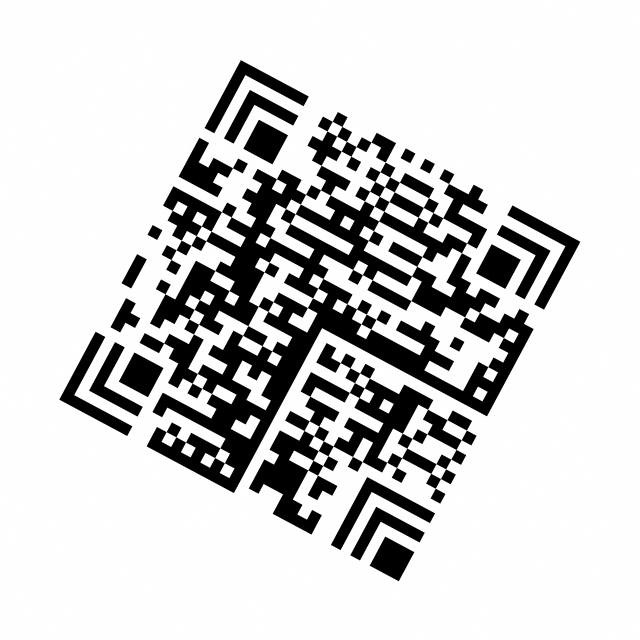
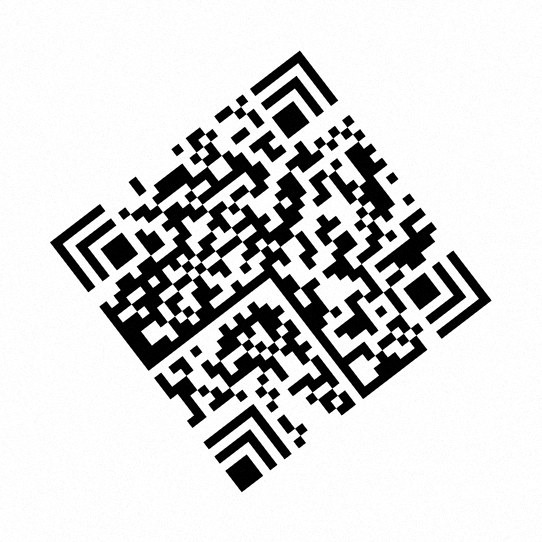
样图换成有意义的演示内容，批量识别示例多行显示在一行
测试集里的中文样本是随机抽字，读出来不成句，容易被误认为乱码。
test-images 换成按测试集同样方式合成的追溯码、设备编号、合格证样图。

Claude-Session: https://claude.ai/code/session_01Fg58WyJ6m7F5o1v1xttdhb

Changed region(s): [[0.0886, 0.0886, 0.9151, 0.9151]]

diff --git a/examples/python/batch_decode.py b/examples/python/batch_decode.py
@@ -14,4 +14,5 @@ for path in sorted(Path(sys.argv[2]).glob("*")):
     start = time.perf_counter()
     text = sdk.decode_file(str(path), time_limit_ms=2000)
     ms = (time.perf_counter() - start) * 1000
-    print(f"{path.name}\t{ms:.0f} ms\t{text if text is not None else '未识别'}")
+    shown = text.replace("\n", " / ") if text is not None else "未识别"   # 多行内容显示在一行
+    print(f"{path.name}\t{ms:.0f} ms\t{shown}")

diff --git a/README.md b/README.md
@@ -19,7 +19,7 @@
 | 误读（输出内容与真值不符） | 0 次 / 3,013 张含码图 |
 | 无码图误报 | 0 / 300 |
 | 曲面弯曲识读率 | 87%（0.4.1 为 18%） |
-| 中位解码耗时 | 4.5 ms（Linux x64 测试机） |
+| 中位解码耗时 | 4.4 ms（Linux x64 测试机） |
 
 测试图由 Zint、BWIPP（bwip-js）、TEC-IT 在线生成器和本 SDK 编码，再程序合成旋转、透视、曲面、模糊、污损、光照和背景变化。合成图不能代替实拍，各条件的成功率见下图，请用试用授权在自己的设备和样本上评估。
 
@@ -83,7 +83,7 @@ cmake --build build
 
 ## 测试图
 
-`test-images/` 里是测试集中的几张样图（曲面、污损、光照不均、旋转），可以直接拿来跑示例。需要打印实物测试，可以向我们索取打印测试页 PDF。
+`test-images/` 里是按测试集同样方式合成的四张样图（曲面、污损、光照不均、旋转），内容是演示用的追溯码、设备编号等，可以直接拿来跑示例。需要打印实物测试，可以向我们索取打印测试页 PDF。
 
 ## 许可
 
